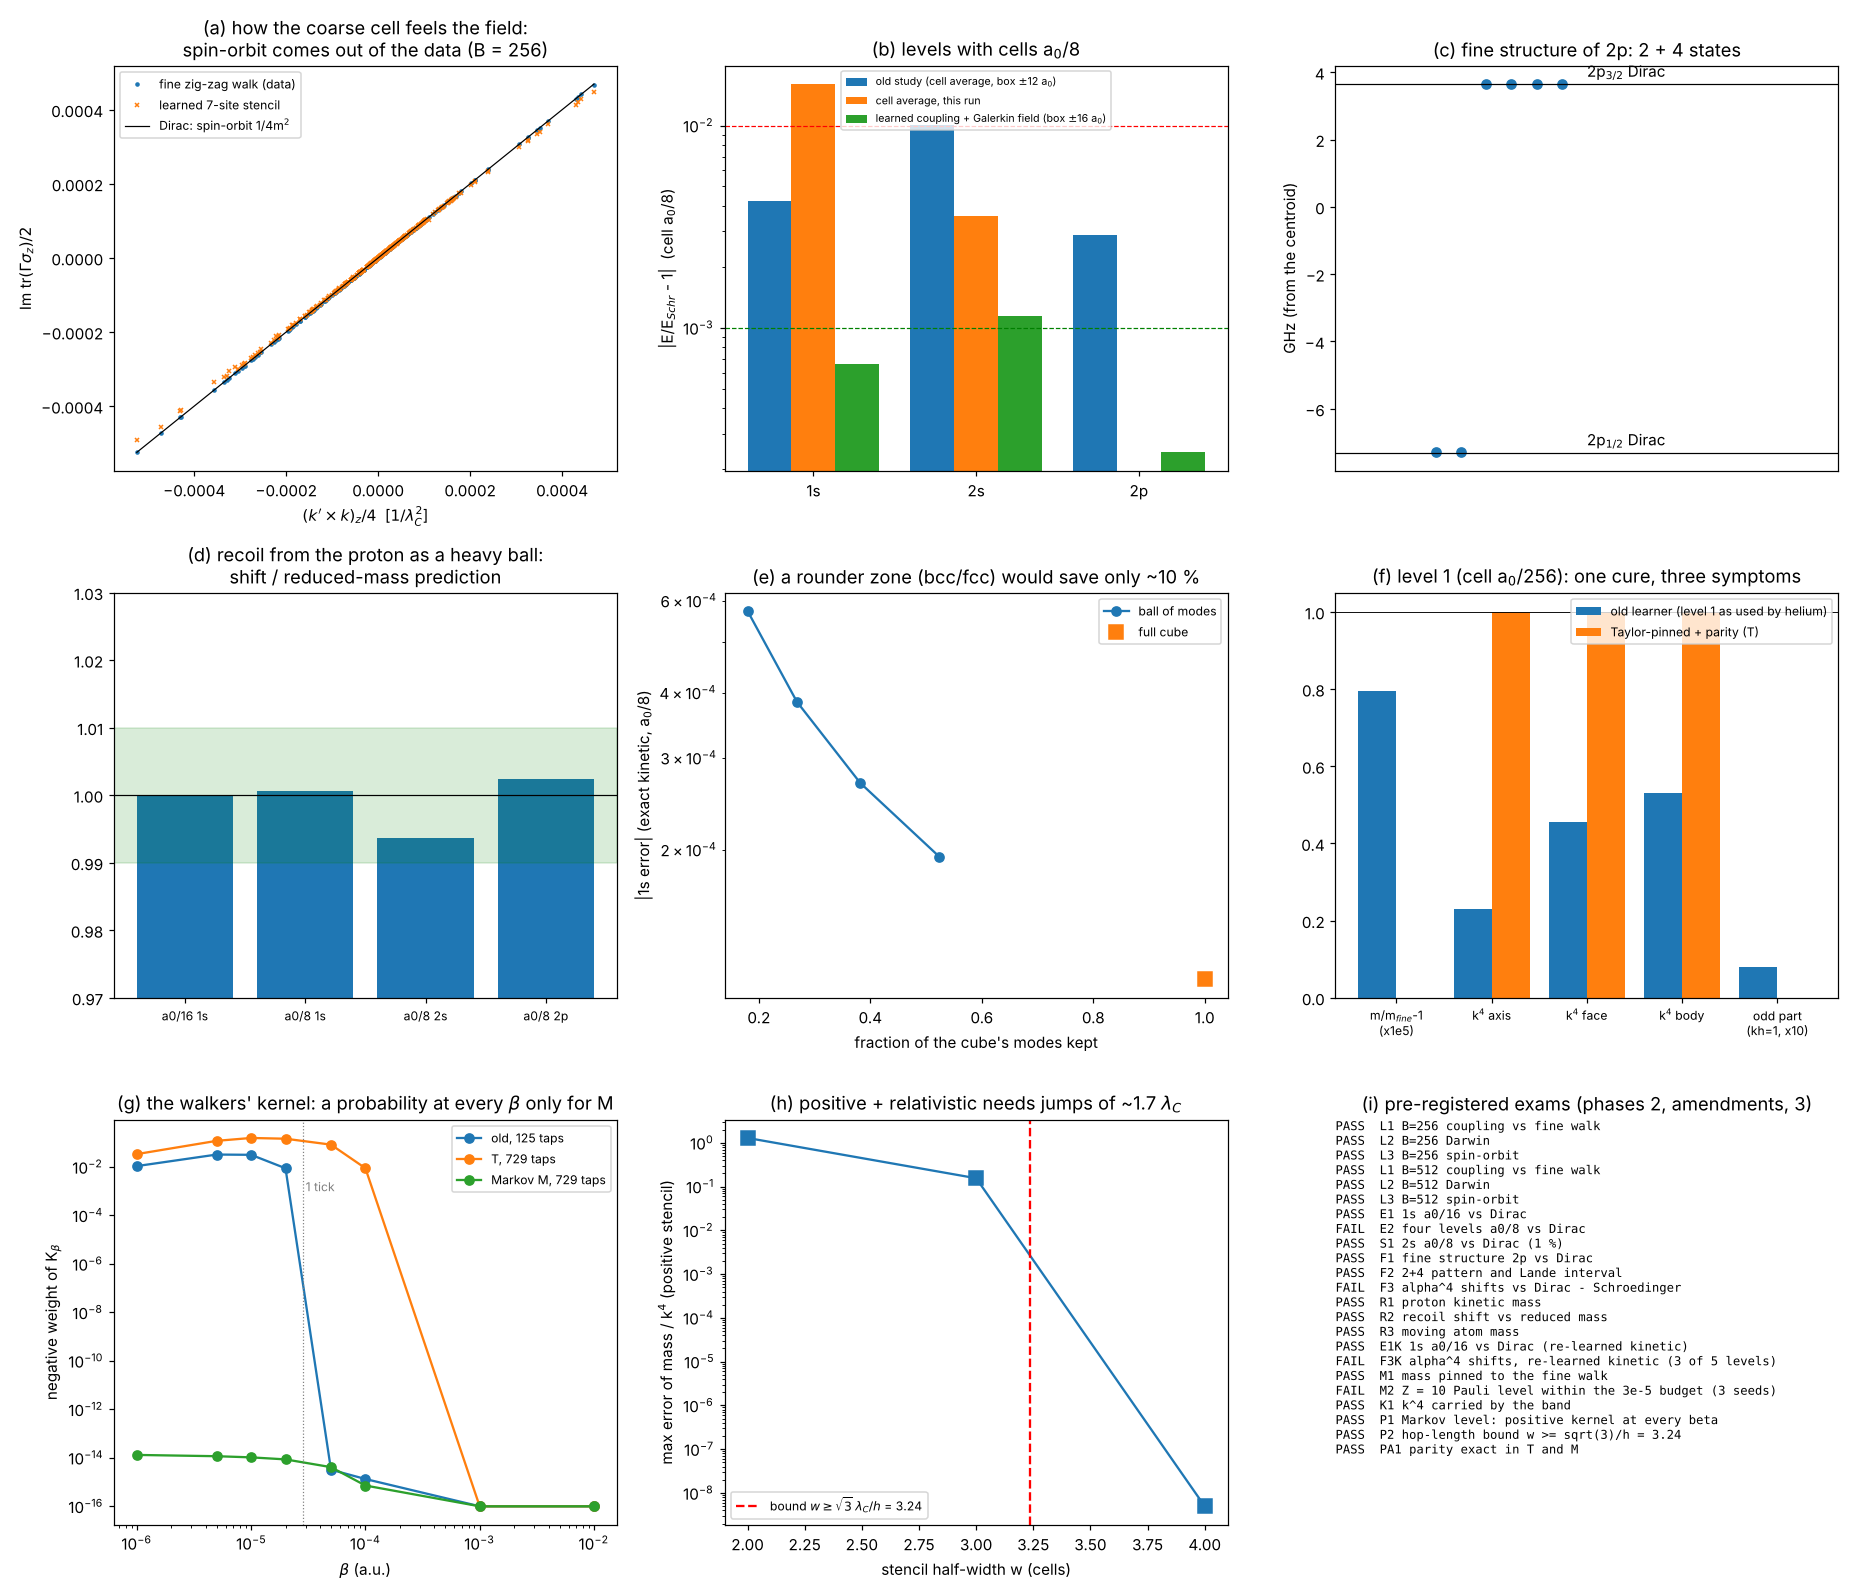
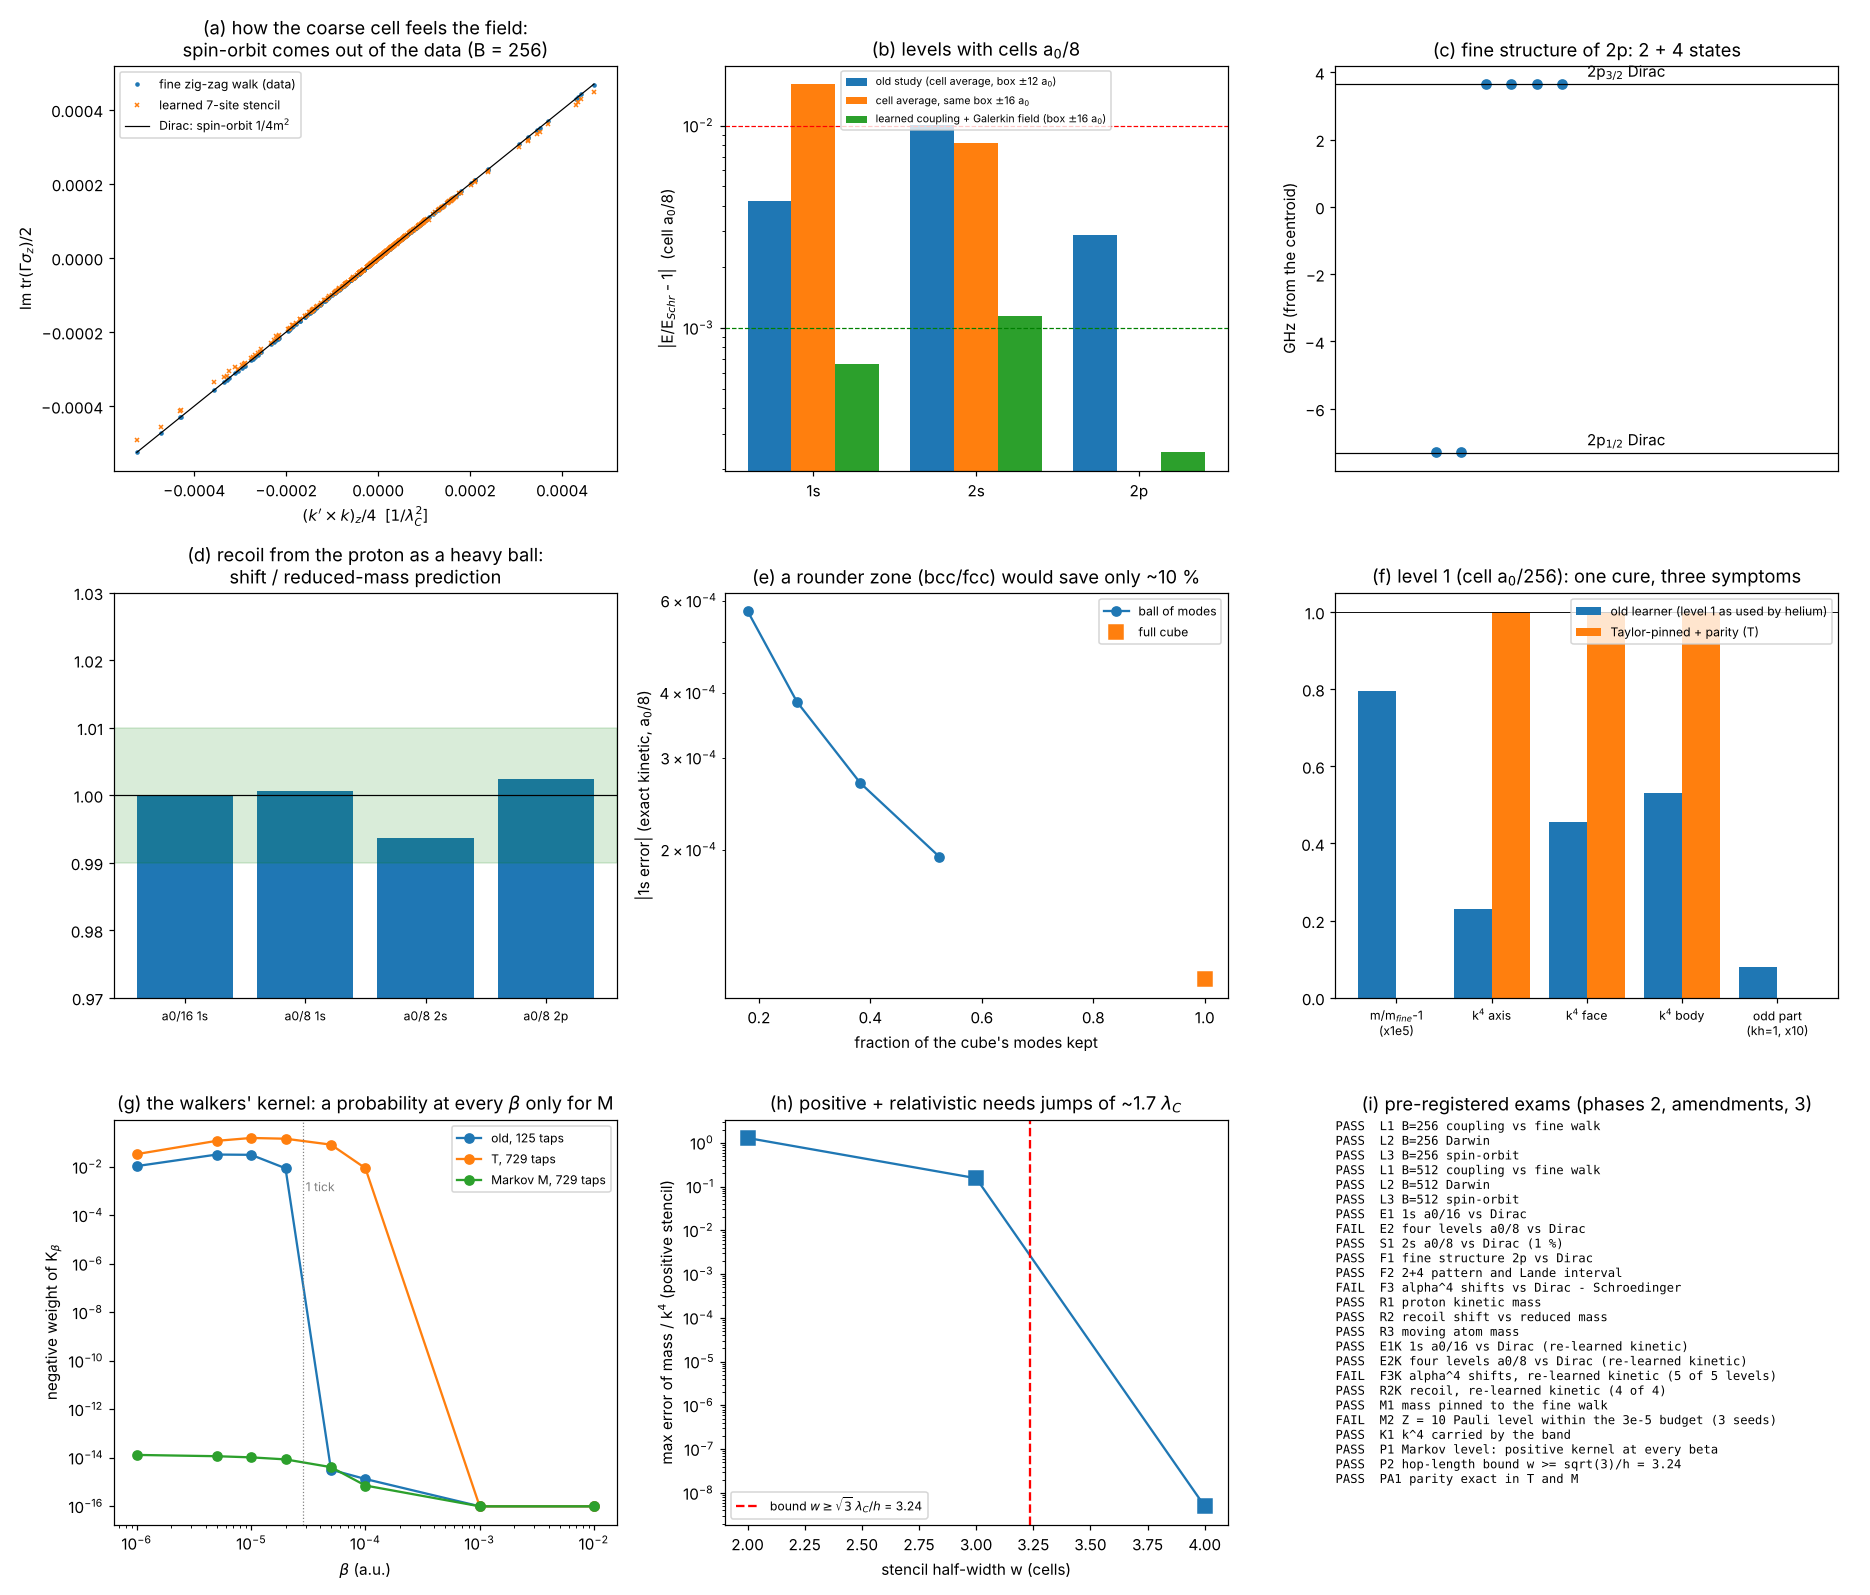
aggfull: diagnostica media di cella a pari scatola (2s -0,82 % contro +0,11 %: il vecchio +1,003 % erano due errori compensati), documento e figura finali

Changed region(s): [[0.7134, 0.8295, 0.9615, 0.9216], [0.4652, 0.0614, 0.5583, 0.1536]]

diff --git a/lab/aggfull_figure.py b/lab/aggfull_figure.py
@@ -43,7 +43,7 @@ a.legend(fontsize=8)
 a = ax[0, 1]
 lev = VD.get("levels", {})
 names, old, new = [], [], []
-pairs = [("1s", "ca8_1s_N192", "e8_1s", 1), ("2s", "ca8_2s_N192", "e8_2s", 2), ("2p", None, "e8_2p", 2)]
+pairs = [("1s", "ca8_1s", "e8_1s", 1), ("2s", "ca8_2s", "e8_2s", 2), ("2p", None, "e8_2p", 2)]
 for nm, o, n_, n in pairs:
     names.append(nm)
     old.append(abs(R[o]["rel_to_schroedinger"]) if o and o in R else np.nan)
@@ -51,7 +51,7 @@ for nm, o, n_, n in pairs:
 oldA = {"1s": 0.00426, "2s": 0.01003, "2p": 0.00289}      # AGGLOMERATO_ZIGZAG A2 (old box +-12 a0, cell average)
 x = np.arange(3)
 a.bar(x - 0.27, [oldA[n] for n in names], 0.27, label="old study (cell average, box $\\pm$12 a$_0$)")
-a.bar(x, old, 0.27, label="cell average, this run")
+a.bar(x, old, 0.27, label="cell average, same box $\\pm$16 a$_0$")
 a.bar(x + 0.27, new, 0.27, label="learned coupling + Galerkin field (box $\\pm$16 a$_0$)")
 a.set_yscale("log"); a.set_xticks(x); a.set_xticklabels(names)
 a.axhline(0.01, color="r", ls="--", lw=0.8); a.axhline(0.001, color="g", ls="--", lw=0.8)

diff --git a/docs/AGGLOMERATO_COMPLETO.md b/docs/AGGLOMERATO_COMPLETO.md
@@ -39,9 +39,9 @@ segni sbagliati del nucleo dei camminatori, pezzo k⁴ della banda, parità).
    disponibile").
 2. **Il potenziale grosso non è più scritto a mano**: 8 "lanterne" per cella (campo di Galerkin senza aliasing). La 1s a
    a₀/16 sta a **+0,0018 % dalla regola fine** allo stesso θ (+0,031 % da Dirac: quasi tutto è la massa θ²/3 della regola fine).
-3. **Il 2s all'1 %**: **+0,11 % da Dirac** (prima +1,003 %, FAIL). Il vecchio FAIL era quasi tutto **scatola**: nella
-   vecchia scatola ±12 a₀ il 2s esce +1,23 % anche con il campo nuovo, a ±16 a₀ +0,11 %. Le immagini periodiche del protone
-   tiravano su il 2s.
+3. **Il 2s all'1 %**: **+0,11 % da Dirac** (prima +1,003 %, FAIL). Il vecchio numero era due errori che si compensavano:
+   la scatola ±12 a₀ (immagini del protone, ~+1,2 %) e la media di cella (~−0,8 %). Servono tutte e due le cure: scatola
+   ±16 a₀ e campo senza media (a pari scatola: −0,82 % → +0,11 %).
 4. **Il rinculo esce da solo.** Il protone è una pallina zig-zag pesante (θ_p = 0,030) agglomerata con la stessa macchina;
    la coppia elettrone+protone dà lo spostamento della massa ridotta entro **0,6 %** su 4 livelli (0,99984 / 1,00065 /
    0,99360 / 1,00238) e l'atomo in moto pesa M/(m_e+m_p) = **1,0007**. μ non compare da nessuna parte.
@@ -155,8 +155,11 @@ Diagnostica di scatola e della vecchia restrizione (non esami):
 | 1s, campo nuovo | ±8 / ±12 / ±16 a₀ | −13,614824 / −13,614676 / −13,614676 | +0,067 / +0,066 / +0,066 % |
 | 2s, campo nuovo | ±12 / ±16 a₀ | −3,443340 / −3,405311 | **+1,232 %** / +0,114 % |
 | 1s, media di cella (vecchia restrizione) con il cinetico imparato | ±12 a₀ | −13,387372 | −1,60 % |
-| 2s, media di cella | ±12 a₀ | (in corso) | — |
-| 1s e 2s, media di cella, ±16 a₀ | ±16 a₀ | (in corso) | — |
+| 2s, media di cella | ±12 a₀ | −3,413552 | +0,357 % |
+| 1s / 2s, media di cella | ±16 a₀ | −13,387372 / −3,373628 | −1,605 / **−0,817 %** |
+
+I 2s con la media di cella hanno il residuo fermo a 2·10⁻⁷ (energia ferma a 8 cifre per 40+ iterazioni): dichiarati non
+convergiti secondo il criterio, ma il numero è stabile.
 
 ### 3.2 Emendamenti 1 e 2 (cinetico ri-imparato, debito #12; `aggfull_amend.json`, `aggfull_amend2.json`, commit 968a554)
 
@@ -202,8 +205,13 @@ numeri noti), non una scoperta, ma è la prima volta che il livello grosso ha un
 | campo nuovo, ±16 a₀ | +0,114 % |
 | campo nuovo + cinetico ri-imparato, ±16 a₀ | +0,091 % (E0); +0,087 % con il primo ordine |
 
-Il 2s ha una coda lunga (e^{−r/2a₀}): in una scatola periodica di ±12 a₀ sente le immagini del protone. La cella a₀/8 di
-per sé basta.
+| media di cella (vecchia restrizione), ±12 a₀ | +0,357 % |
+| media di cella, ±16 a₀ | **−0,817 %** |
+
+Il 2s ha una coda lunga (e^{−r/2a₀}): in una scatola periodica di ±12 a₀ sente le immagini del protone, che lo spingono su
+di ~+1,2 %. La media di cella invece lo spinge giù di ~−0,8 %. **Il vecchio +1,003 % era la somma di due errori che si
+compensavano in parte.** A pari scatola (±16 a₀) le lanterne fanno 7 volte meglio della media di cella (+0,11 % contro
+−0,82 %), e sulla 1s 24 volte (+0,066 % contro −1,60 %).
 
 ### 4.3 Perché F3 fallisce anche col cinetico ri-imparato (onesto)
 Gli spostamenti α⁴ degli stati s sono un effetto **di contatto**: Darwin ∝ |ψ(0)|² e massa-velocità ∝ ⟨p⁴⟩, entrambi
@@ -254,8 +262,8 @@ la regola fine ad alto k (bz 0,91: la banda in fondo al cubo è diversa), quindi
   riscritta (un campo alla volta, ≤ 1,9 GB). La corsa buona è quella riscritta.
 - **Residuo del 2p** fermo a 1,3·10⁻⁸ (campo in float32): il criterio di convergenza è stato portato da 10⁻¹⁰ a
   2·10⁻⁸ durante le corse (errore sull'energia ~r²/gap < 10⁻¹² eV); dichiarato nel codice.
-- **Diagnostica della media di cella a 256³** spostata dopo le corse K (fermata a mano a metà del 2s a 192³): numeri in §3.1
-  quando finita.
+- **Diagnostica della media di cella** spostata dopo le corse K (driver fermato a mano); i 2s con la media di cella non
+  raggiungono il criterio (residuo 2·10⁻⁷) ma l'energia è ferma a 8 cifre.
 
 ## 6. Debiti: chiusi, aperti, nuovi
 
@@ -305,7 +313,8 @@ quello che serve per avere il prodotto V·φ senza aliasing alla risoluzione del
 limitata ha banda doppia: raddoppiare la griglia in ogni direzione = 2³ = 8 punti). Il nucleo non deve più stare al
 centro o all'angolo: tutto è covariante. Numeri, onesti: la 1s a a₀/16 cade a +0,0018 % dalla regola fine; con la
 vecchia media di cella (stesso cinetico, stessa scatola ±12 a₀) la 1s a a₀/8 sbaglia di −1,60 %, con le lanterne di +0,066 %.
-Il 2s invece è migliorato soprattutto per la **scatola** (§4.2): le lanterne non c'entrano. *Costo:* 8 FFT di interpolazione in più per ogni applicazione del potenziale (~4× il costo del solo cinetico);
+Per il 2s a pari scatola ±16 a₀: media di cella −0,82 %, lanterne +0,11 % (il vecchio +1,003 % era scatola + media di cella
+che si compensavano, §4.2). *Costo:* 8 FFT di interpolazione in più per ogni applicazione del potenziale (~4× il costo del solo cinetico);
 sulla GPU è banale (sono convoluzioni). *Regole:* sì: l'unico ingresso è −Zα/r, niente scelte.
 
 **G2 — Una zona di Brillouin più tonda (bcc/fcc) (provata: idea negativa).** *A schermo:* palline su un reticolo
@@ -386,7 +395,8 @@ senza zoom: bastava la scatola più grande (±16 a₀) e il campo senza media di
   bilancio); (3) DEBT-4/DEBT-9: il pezzo k⁴ della banda è ora il 99,9 % del −α²⟨p⁴⟩/8 di Dirac (−0,70 mEh con
   ⟨p⁴⟩ = 52,89): o i camminatori saltano col nucleo M (lo includono), o lo si sottrae al primo ordine per il confronto
   non relativistico; (4) il Darwin non c'è nella banda libera: viene dall'accoppiamento imparato (Γ = 1 − q²/8, fase 2).
-  Codice: `lab/aggfull_l1.py` (`fit(..., mode="T"|"M")`, `taylor()`).
+  Codice: `lab/aggfull_l1.py` (`fit(..., mode="T"|"M")`, `taylor()`); i due .pkl non sono nel repo: si rifanno con
+  `python lab/aggfull_l1.py run` (~3 minuti).
 - **Per l'idrogeno di Bohr:** la parità esatta si ottiene simmetrizzando G_j ← (G_j + G_{−j})/2 per tutte le componenti
   (con l'hermiticità G_{−j} = G_j† vuol dire G_j hermitiana): `aggfull_l1.fit` lo fa. Tocca la parità: sì.
 - **Ponte (proposta, non creata):** `ponte/richieste/aggfull_lanterne.json` con azione `foto` sul Laboratorio Atomo con il
